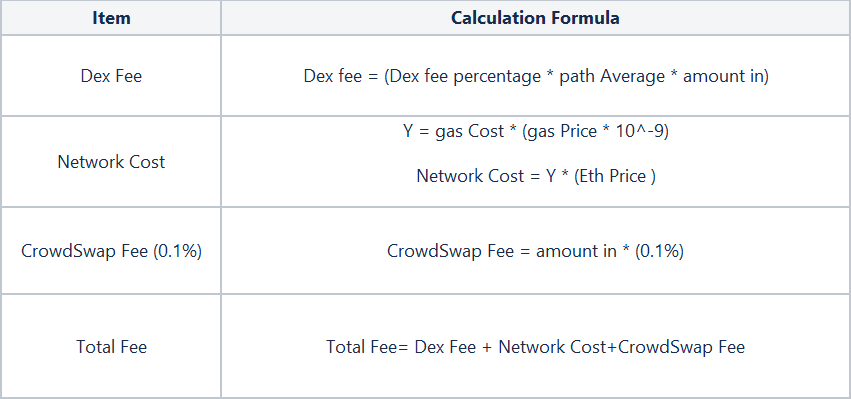
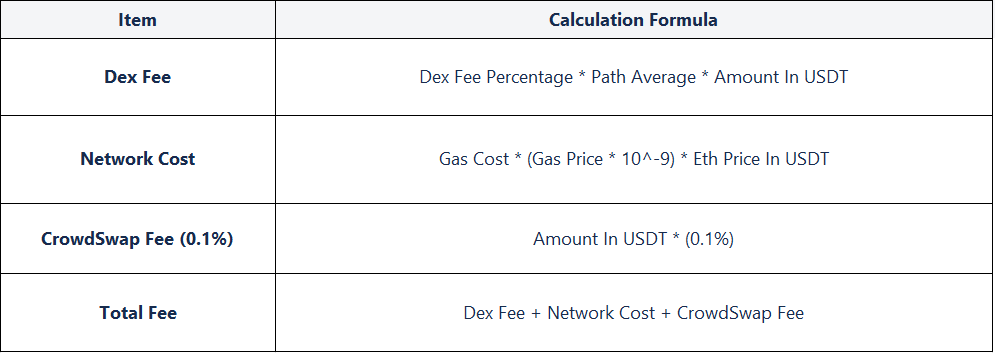
BLOC-477 protocol changes

diff --git a/core-concepts/protocol.md b/core-concepts/protocol.md
@@ -2,13 +2,17 @@
 
 ### Fees/Estimation calculation
   
-The price of source and destination tokens in USDT is inquired from coingecko or Binance APIs (for more information, refer to [Developer](../developers/guides.md)).
+The price of source and destination tokens in USDT is inquired from coingecko or Binance APIs.
 The fee of each DEX and network cost are inquired from that DEX. Crowdswap fee is calculated as 0.1% of source price in USDT.
 All fees are deducted from destination amount except liquidity provider fee which is deducted from source token amount.
 
 ###
 
 ![](../.gitbook/assets/calculation-fees-table.png)
+
+* Gas Price: (https://ethgasstation.info/)
+* Gas Cost: Historical gas usage of functions in the target DEX
+* Amount In USDT: source token amount * source token price in USDT
 ###
 For example, by selecting ETH as source token and AUC as destination token, you can see fees are calculated based on data from estimation.
 Keep in mind that by clicking swap button, a new estimation will be performed based on the best price DEX. 
@@ -16,7 +20,7 @@ Keep in mind that by clicking swap button, a new estimation will be performed ba
 ![](../.gitbook/assets/estimate.png)
 
 
-### Supported Networks and DEXes
+### Supported Networks and DEXes (current state)
 
 * #### Ethereum Network
     * Uniswap V2
